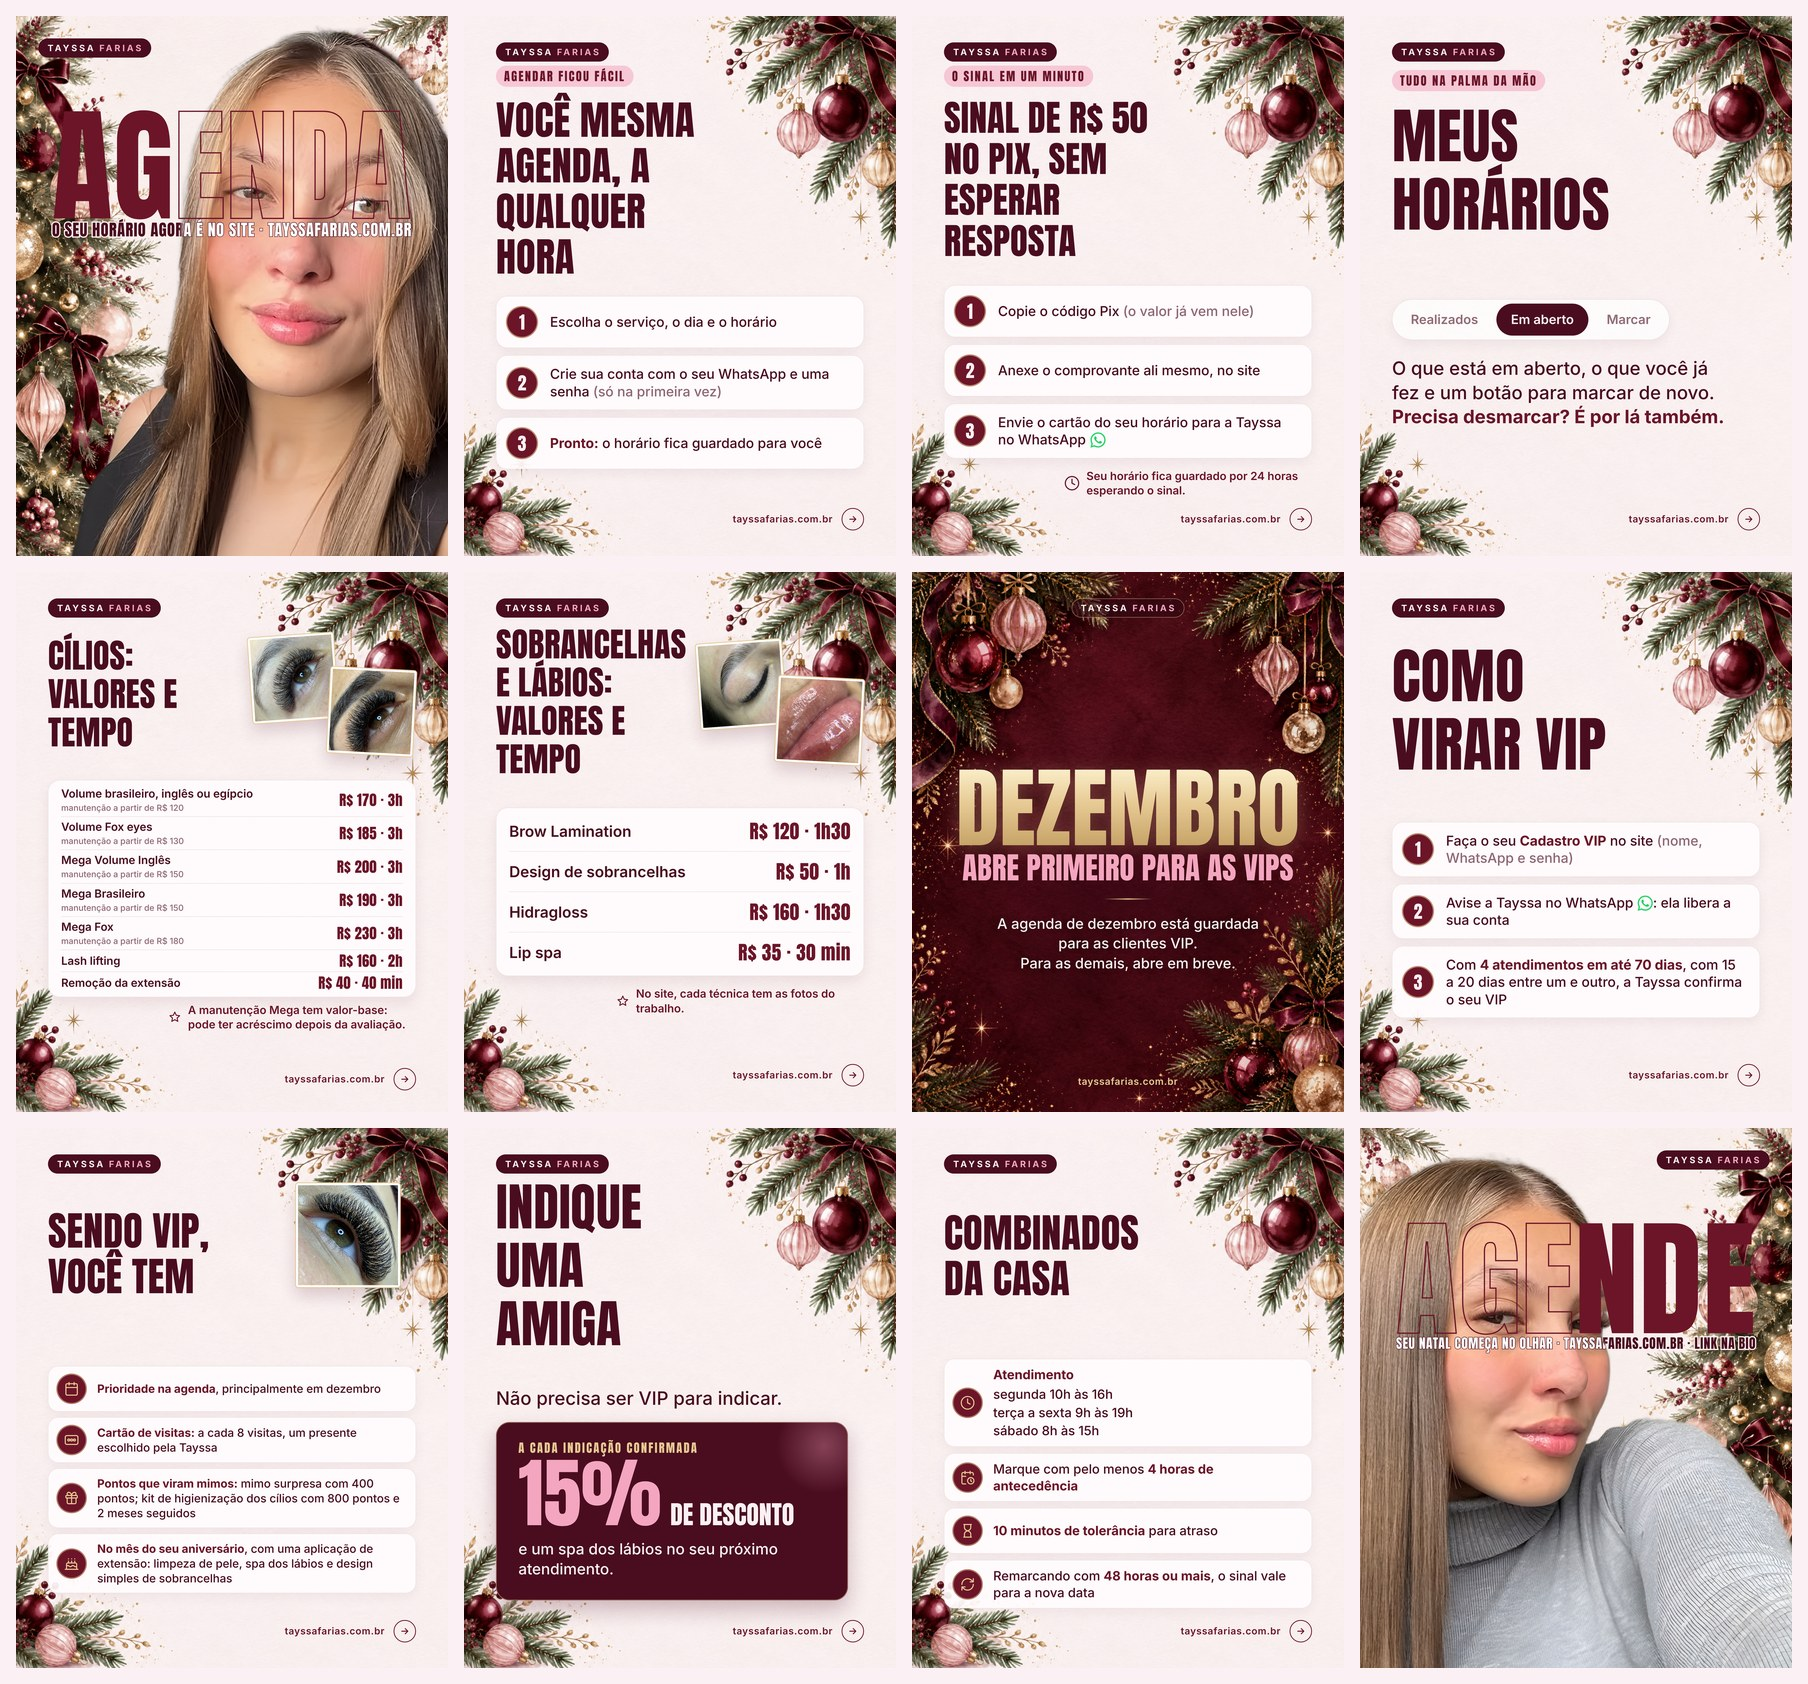
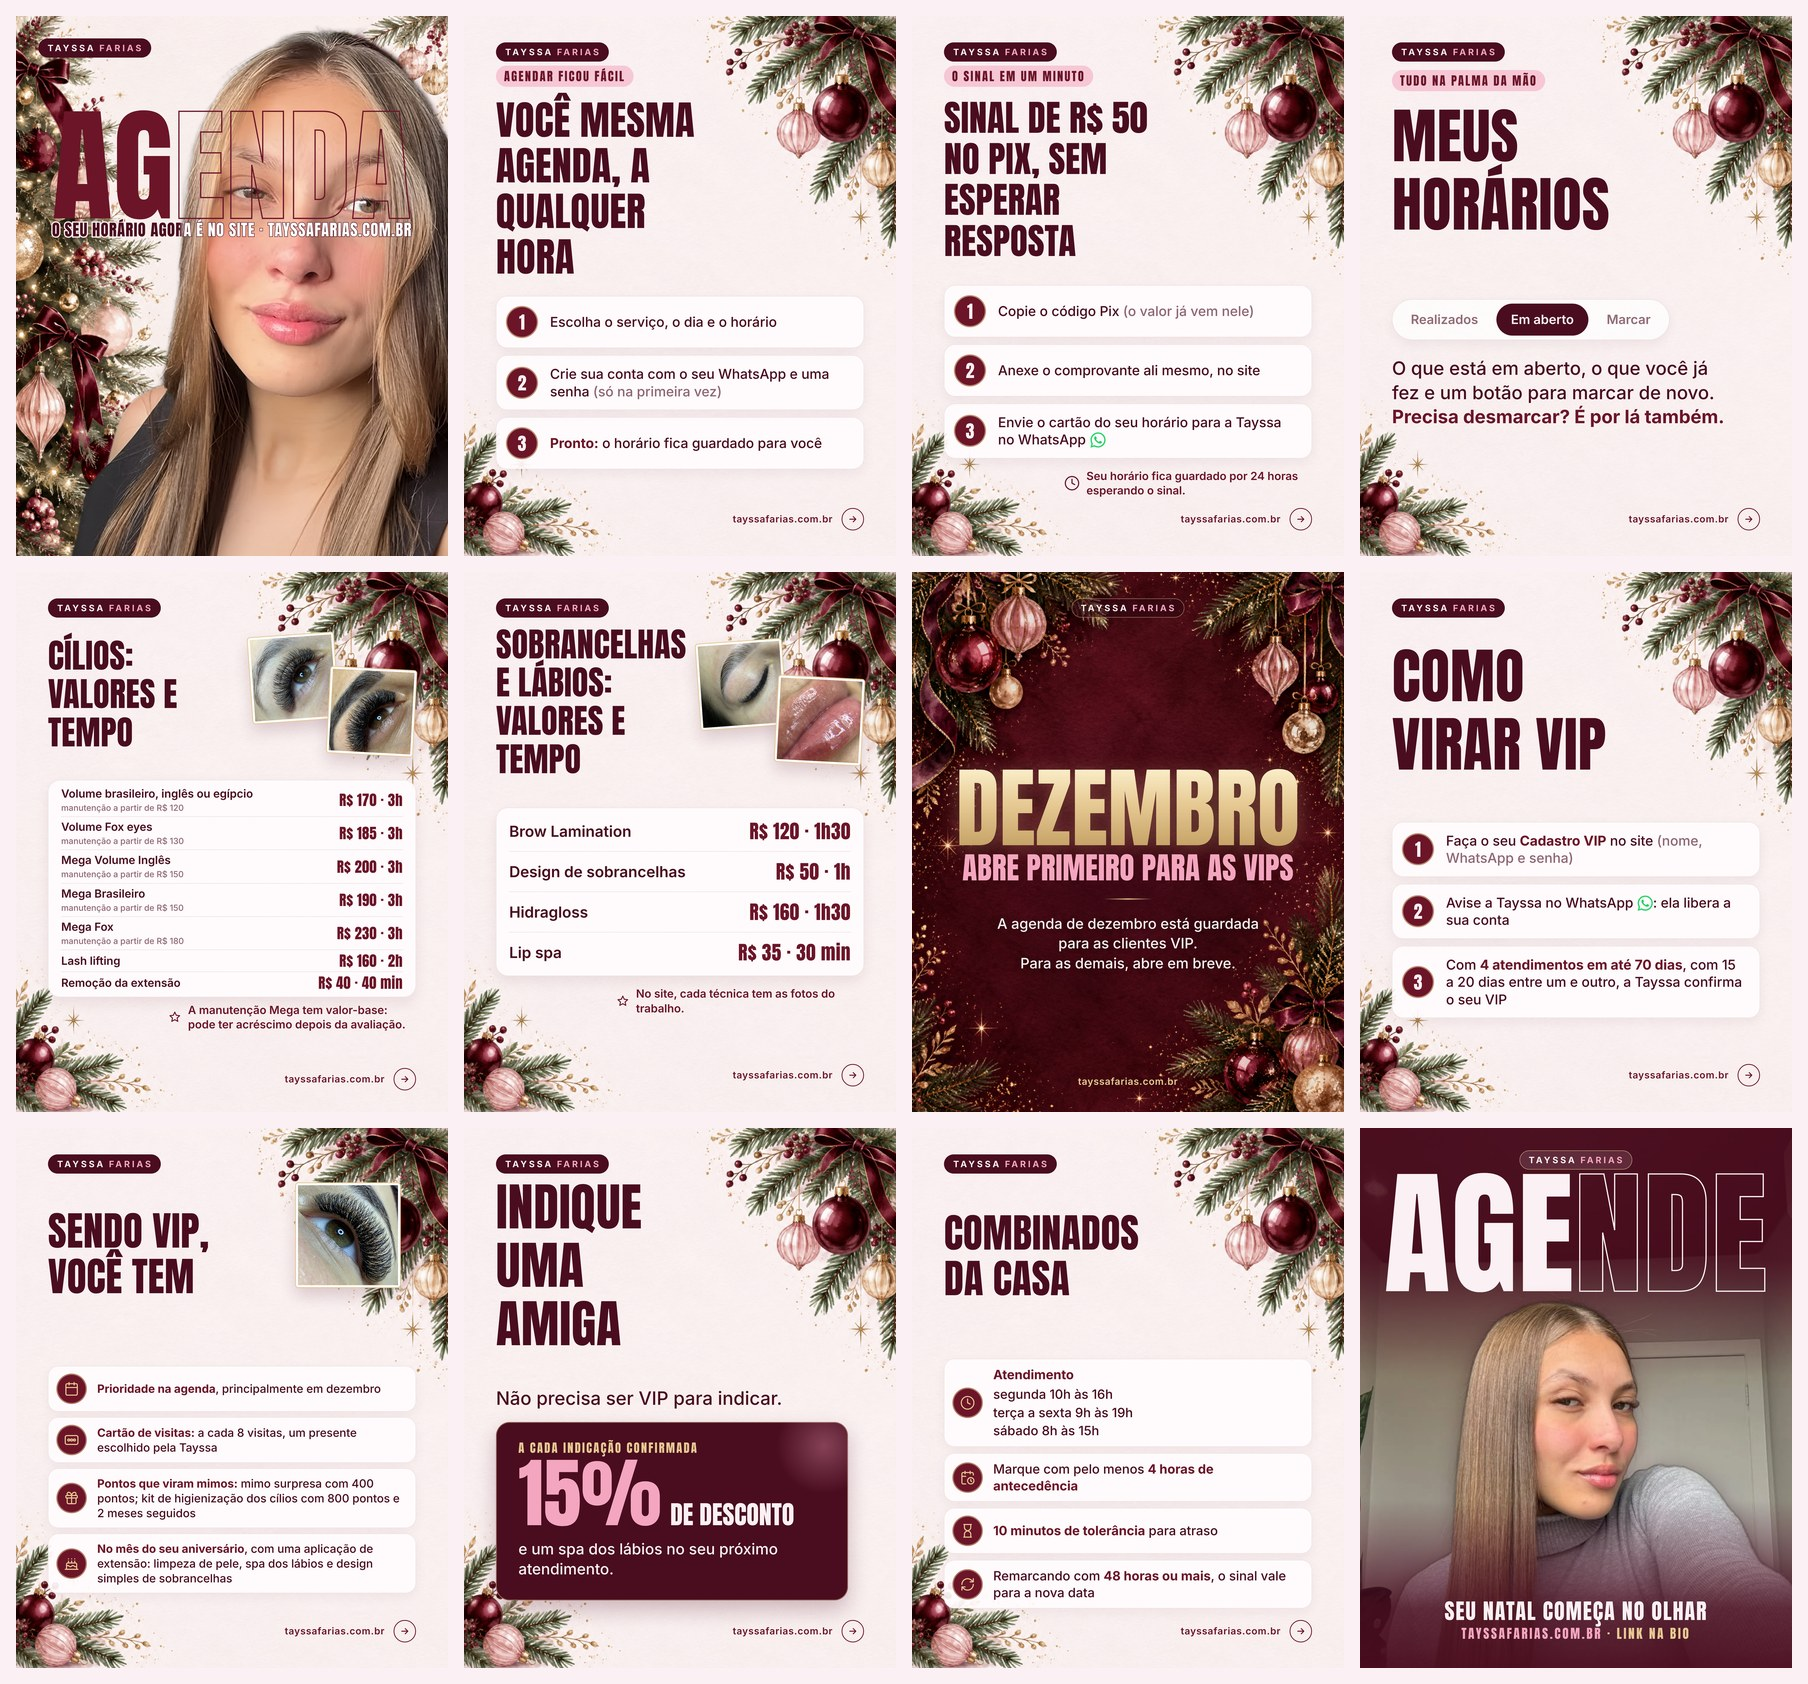
Tayssa: card final do carrossel do site com a foto dela de fundo
Selfie nova ocupando o card inteiro, AGENDE claro sobre o teto vinho e a
linha final sobre um degradê vinho.

Claude-Session: https://claude.ai/code/session_01C7Fqj9QNbeqjAG4x5LcgP7

Changed region(s): [[0.7434, 0.6485, 0.9912, 1.0]]

diff --git a/docs/tayssa/carrossel-natal/gerador/style.css b/docs/tayssa/carrossel-natal/gerador/style.css
@@ -257,3 +257,25 @@ main { justify-content: flex-start; padding: 0; }
 .interna:has(.precos--cilios) .arco--p1 { top: 44px; }
 .interna:has(.precos--cilios) .arco--p2 { top: 128px; }
 .arco--vip { width: 260px; height: 260px; top: 24px; }
+/* ---- fechamento com a foto de fundo ---- */
+.fundo-foto { overflow: hidden; }
+.fundo-foto > * { position: absolute; }
+.ff-bg, .ff-recorte { display: block; max-width: none; }
+.ff-bg { z-index: 1; }
+.ff-veu { inset: 0; z-index: 2; background: linear-gradient(180deg, rgba(74,13,31,.92) 0, rgba(74,13,31,.82) 300px, rgba(74,13,31,.35) 480px, rgba(74,13,31,0) 640px); }
+.ff-titulo { left: 50%; top: 150px; transform: translateX(-50%); white-space: nowrap; font-family: var(--anton); line-height: .8; letter-spacing: .005em; }
+.ff-titulo--cheio { z-index: 3; color: #fbf0f3; }
+.ff-titulo--cheio .ff-oco { color: transparent; -webkit-text-stroke: 3px #fbf0f3; }
+.ff-recorte { z-index: 4; filter: drop-shadow(0 10px 24px rgba(46,6,18,.35)); }
+.ff-sobre { inset: 0; z-index: 5; }
+.ff-titulo--contorno { color: transparent; -webkit-text-stroke: 3px #fbf0f3; }
+.ff-titulo--contorno span { color: transparent; }
+.ff-pe { left: 0; right: 0; bottom: 0; height: 420px; z-index: 6; background: linear-gradient(0deg, rgba(74,13,31,.96) 0, rgba(74,13,31,.85) 150px, rgba(74,13,31,0) 100%); }
+.ff-marca { z-index: 7; top: 56px; left: 50%; transform: translateX(-50%); }
+.ff-marca .marca { background: rgba(251,240,243,.12); box-shadow: inset 0 0 0 1.5px rgba(230,201,147,.6); }
+.ff-linha { z-index: 7; left: 0; right: 0; bottom: 70px; display: flex; flex-direction: column; align-items: center; gap: 14px; text-align: center; }
+.ff-linha span:first-child { font: 400 54px/1 var(--anton); letter-spacing: .05em; color: #fbf0f3; }
+.ff-linha span:last-child { font: 400 32px/1 var(--anton); letter-spacing: .14em; color: var(--ouro); }
+.ff-linha b { font-weight: 400; color: var(--rose); }
+.ff-titulo { top: 128px; }
+.ff-veu { background: linear-gradient(180deg, rgba(74,13,31,.93) 0, rgba(74,13,31,.85) 330px, rgba(74,13,31,.4) 470px, rgba(74,13,31,0) 620px); }

diff --git a/docs/tayssa/carrossel-natal/README.md b/docs/tayssa/carrossel-natal/README.md
@@ -12,7 +12,7 @@ Post do @1.tayssa anunciando o tayssafarias.com.br. 12 lâminas em 1080 x 1350 (
 ## Como foi feito
 
 - **Fundos:** IA do Canva (a chave da kie.ai do ambiente deu 401 e não havia outra). Prompt-base do roteiro em todas, mudando só o pedido de cada lâmina. Três fundos: capa (árvore de um lado, espaço para a foto), internas (detalhe no alto à direita e embaixo à esquerda) e dezembro (vinho com dourado; o primeiro saiu claro e foi refeito trocando o papel claro por vinho). O fechamento usa o fundo da capa espelhado. Arte rascunho com os fundos no Canva: "Fundo de Natal em aquarela" (design `DAHainzdQbk`).
-- **Fotos:** só as reais que a Tayssa mandou. Capa: a selfie do sorriso com a flor ao fundo. Fechamento: a de blusa cinza. A primeira selfie (a do `portrait.jpg`) saiu da capa a pedido do Lucas. Fundo recortado com rembg (`birefnet-portrait`), no lugar do recraft/remove-background da kie. As fotos vieram em 720 px; para o close ficar nítido foram ampliadas 4x com Real-ESRGAN (`RealESRGAN_x4plus`, só nitidez, não redesenha o rosto) e misturadas com 25% da foto original para manter a textura da pele. Lâmina 5: dois closes de olho com extensão (Volume Inglês e Mega Inglês, fotos do formulário da Tayssa em `vip.photos`); lâmina 6: um close de Brow Lamination e um de Hidragloss; lâmina 9: close de Volume Inglês. Só olho, sobrancelha e boca. Nunca rosto de cliente.
+- **Fotos:** só as reais que a Tayssa mandou. Capa: a selfie do sorriso com a flor ao fundo. Fechamento (12/11/2026): uma selfie nova de blusa cinza que o Lucas mandou, de fundo no card inteiro, com véu vinho sobre o teto e a parede para o AGENDE claro aparecer e o recorte dela por cima (`fech-fundo*.{webp,png}`). A primeira selfie (a do `portrait.jpg`) saiu da capa a pedido do Lucas. Fundo recortado com rembg (`birefnet-portrait`), no lugar do recraft/remove-background da kie. As fotos vieram em 720 px; para o close ficar nítido foram ampliadas 4x com Real-ESRGAN (`RealESRGAN_x4plus`, só nitidez, não redesenha o rosto) e misturadas com 25% da foto original para manter a textura da pele. Lâmina 5: dois closes de olho com extensão (Volume Inglês e Mega Inglês, fotos do formulário da Tayssa em `vip.photos`); lâmina 6: um close de Brow Lamination e um de Hidragloss; lâmina 9: close de Volume Inglês. Só olho, sobrancelha e boca. Nunca rosto de cliente.
 - **Capa e fechamento no desenho da referência:** rosto em close, título com parte cheia e parte só em contorno fino passando pelo rosto ("AG" cheio e "ENDA" vazado na capa; "AGE" vazado e "NDE" cheio no fechamento), linha pequena embaixo que fica vinho sobre o fundo e branca com contorno sobre ela (máscara `*-mask.png`, tirada do recorte da foto, com borda firme).
 - **Texto:** aplicado em código por cima (Anton nos títulos, Inter no texto), copiado do roteiro. Valores, sinal de R$ 50, 4 h de antecedência, 10 min de tolerância, 48 h para remarcar e a regra do VIP (4 em 70 dias, 15 a 20 entre um e outro) conferidos com o banco e com `lib/tayssa/config.ts` em 10/11/2026.
 - Ícone do WhatsApp: a logo oficial (o mesmo desenho de `components/tayssa/ui/whatsapp.tsx`).
